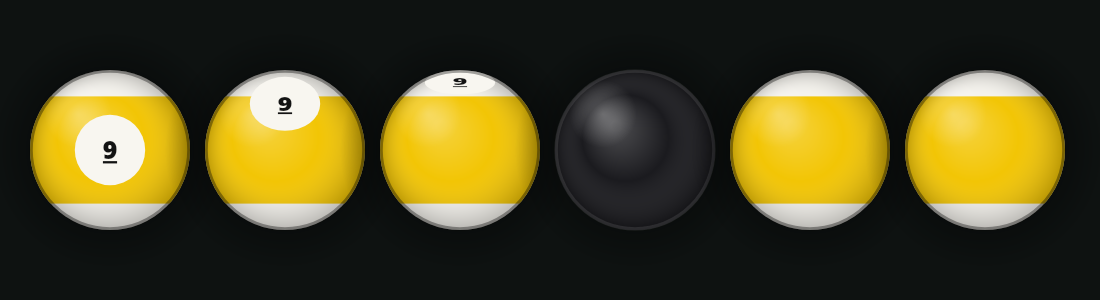
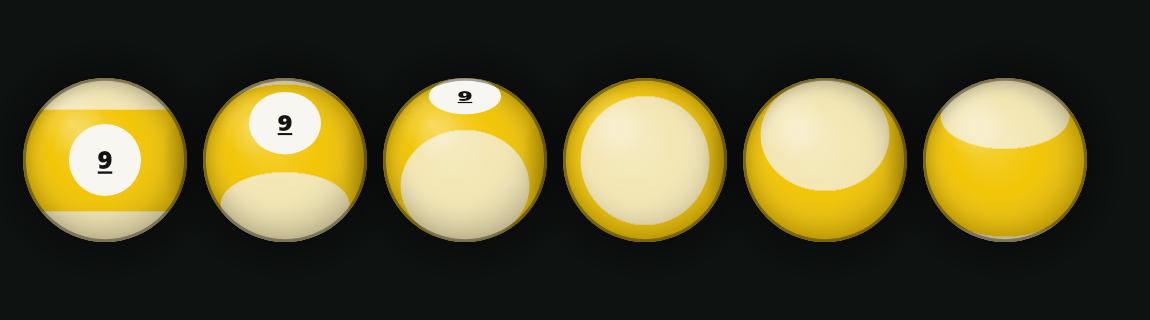
Fix the break: uniform-rate playback and a rack that is not a Newton's cradle
The playback indexed frames at a fixed 240Hz, but event-driven frames are not evenly spaced - a break produces clusters of millisecond steps, which played back as a freeze followed by a jump. Frames are now found by timestamp and interpolated. Separately, a mathematically perfect triangle breaks like a Newton's cradle: the impulse runs straight through and most balls never move. The rack now has sub-millimetre deterministic jitter. Striped balls are drawn by clipping the white poles against the sphere per scanline, so the band tilts and narrows as the ball rolls instead of staying pinned horizontal.

diff --git a/src/render/scene.ts b/src/render/scene.ts
@@ -379,11 +379,74 @@ function drawPlacement(ctx: CanvasRenderingContext2D, p: V2): void {
 }
 
 /**
+ * Fills the visible part of the sphere where P . axis > c * R.
+ *
+ * That is a spherical cap, and its outline depends on how the axis sits
+ * relative to the camera: a circle when the axis points at you, a straight
+ * edge when it lies in the screen plane, a conic in between. Solved per
+ * scanline by intersecting the plane with the circle of that row.
+ */
+function fillCap(
+  ctx: CanvasRenderingContext2D,
+  cx: number,
+  cy: number,
+  R: number,
+  axis: V3,
+  c: number,
+  color: string,
+  rows: number,
+): void {
+  const ax = axis.x;
+  const ay = axis.y;
+  const az = axis.z;
+  ctx.fillStyle = color;
+
+  for (let i = 0; i < rows; i++) {
+    const y = -R + ((i + 0.5) * 2 * R) / rows;
+    const h2 = R * R - y * y;
+    if (h2 <= 0) continue;
+    const h = Math.sqrt(h2);
+    const K = c * R - y * ay;
+
+    const edges: number[] = [-h, h];
+    if (Math.abs(az) < 1e-9) {
+      if (Math.abs(ax) > 1e-9) {
+        const x = K / ax;
+        if (x > -h && x < h) edges.push(x);
+      }
+    } else {
+      const A = ax * ax + az * az;
+      const B = -2 * K * ax;
+      const Cc = K * K - az * az * h2;
+      const disc = B * B - 4 * A * Cc;
+      if (disc > 0) {
+        const sq = Math.sqrt(disc);
+        for (const x of [(-B - sq) / (2 * A), (-B + sq) / (2 * A)]) {
+          if (x > -h && x < h) edges.push(x);
+        }
+      }
+    }
+
+    edges.sort((p, q) => p - q);
+    for (let k = 0; k < edges.length - 1; k++) {
+      const x0 = edges[k];
+      const x1 = edges[k + 1];
+      if (x1 - x0 < 1e-9) continue;
+      const xm = (x0 + x1) / 2;
+      const zm = Math.sqrt(Math.max(0, h2 - xm * xm));
+      if (ax * xm + ay * y + az * zm > c * R) {
+        ctx.fillRect(cx + x0, cy + y, x1 - x0, (2 * R) / rows + 1e-6);
+      }
+    }
+  }
+}
+
+/**
  * One ball.
  *
- * Solids are a disc with a white number patch, stripes are a band. The patch
- * position comes from the ball's orientation, so the number rolls over the top
- * of the ball and disappears round the back while it moves.
+ * Solids are a disc with a white number patch, stripes a coloured band. The
+ * patch position comes from the ball's orientation, so the number rolls over
+ * the top of the ball and disappears round the back while it moves.
  */
 export function drawBall(
   ctx: CanvasRenderingContext2D,
@@ -420,11 +483,17 @@ export function drawBall(
   ctx.fillStyle = isCue ? '#f4f2ec' : stripe ? '#f4f2ec' : hue;
   ctx.fillRect(x - R, y - R, R * 2, R * 2);
 
-  if (stripe && !isCue) {
-    // Narrow enough that the white poles read clearly. A band that reaches the
-    // top and bottom of the ball just looks like a solid.
+  if (stripe && !isCue && detail > 0) {
+    // The whole ball goes the stripe colour, then the two poles are painted
+    // back to white. Because the poles are clipped against the sphere they
+    // tilt, narrow and merge with the silhouette exactly as the ball rolls,
+    // instead of being a flat bar that ignores the rotation.
     ctx.fillStyle = hue;
-    ctx.fillRect(x - R, y - R * 0.67, R * 2, R * 1.34);
+    ctx.fillRect(x - R, y - R, R * 2, R * 2);
+    const rows = Math.max(10, Math.min(320, Math.round(pxRadius * 2)));
+    const axis = qRotate(b.q, { x: 0, y: 1, z: 0 });
+    fillCap(ctx, x, y, R, axis, 0.62, '#f4f2ec', rows);
+    fillCap(ctx, x, y, R, { x: -axis.x, y: -axis.y, z: -axis.z }, 0.62, '#f4f2ec', rows);
   }
 
   // Shading and highlight go down before the number. Shading the patch as

diff --git a/src/core/physics.ts b/src/core/physics.ts
@@ -88,7 +88,18 @@ export const makeBall = (id: number, x: number, y: number): Ball => ({
   pocketed: false,
 });
 
-const RACK_SPACING = 2 * BALL_R + 0.0004;
+const RACK_SPACING = 2 * BALL_R + 0.004;
+
+/**
+ * A real rack is never perfectly tight. With a mathematically perfect triangle
+ * the break behaves like a Newton's cradle: the impulse runs straight through
+ * and only the back of the rack moves. A few tenths of a millimetre of
+ * deterministic jitter is enough to make the pack scatter like a real one.
+ */
+function rackJitter(seed: number): number {
+  const x = Math.sin(seed * 12.9898) * 43758.5453;
+  return (x - Math.floor(x) - 0.5) * 0.0035;
+}
 
 /**
  * Standard 8-ball rack: 1 on the apex, 8 in the middle, one solid and one
@@ -110,7 +121,8 @@ export function newRack(): Ball[] {
     for (let i = 0; i < line.length; i++) {
       const x = apexX + row * dx;
       const y = (i - (line.length - 1) / 2) * RACK_SPACING;
-      balls.push(makeBall(line[i], x, y));
+      const seed = row * 7 + i + 1;
+      balls.push(makeBall(line[i], x + rackJitter(seed) * 0.5, y + rackJitter(seed + 31)));
     }
     row++;
   }
@@ -525,7 +537,7 @@ export function simulate(balls: Ball[]): { events: SimEvent[]; frames: Frame[] }
 
     // Resolve whatever we just ran into. A few passes so a ball squeezed
     // between two others settles instead of jittering.
-    for (let pass = 0; pass < 4; pass++) {
+    for (let pass = 0; pass < 12; pass++) {
       let touched = false;
       for (let i = 0; i < active.length; i++) {
         for (let k = i + 1; k < active.length; k++) {

diff --git a/src/app.ts b/src/app.ts
@@ -549,10 +549,21 @@ export class App {
     if (this.playFrames.length === 0) return this.state.balls;
 
     const fs = this.playFrames;
-    const f = this.playT * 240;
-    const i0 = clamp(Math.floor(f), 0, fs.length - 1);
+    // Frames are not evenly spaced - contacts produce clusters of very short
+    // steps - so the time has to be found by timestamp. Indexing at a fixed
+    // 240Hz made those clusters look like the table had frozen.
+    const t = this.playT;
+    let lo = 0;
+    let hi = fs.length - 1;
+    while (lo < hi) {
+      const mid = (lo + hi + 1) >> 1;
+      if (fs[mid].t <= t) lo = mid;
+      else hi = mid - 1;
+    }
+    const i0 = lo;
     const i1 = Math.min(i0 + 1, fs.length - 1);
-    const a = f - i0;
+    const span = fs[i1].t - fs[i0].t;
+    const a = span > 1e-9 ? (t - fs[i0].t) / span : 0;
     const A = fs[i0];
     const B = fs[i1];
 

diff --git a/test/physics.test.ts b/test/physics.test.ts
@@ -26,7 +26,8 @@ describe('rack', () => {
   it('puts the 8 in the middle of the rack and a solid/stripe in the back corners', () => {
     const balls = newRack();
     const eight = balls.find((b) => b.id === 8)!;
-    expect(Math.abs(eight.p.y)).toBeLessThan(1e-9);
+    // The rack has a little deterministic jitter, so "middle" is approximate.
+    expect(Math.abs(eight.p.y)).toBeLessThan(0.003);
     const back = balls
       .filter((b) => b.id !== 0)
       .sort((a, b) => b.p.x - a.p.x)

diff --git a/docs/physics.md b/docs/physics.md
@@ -187,7 +187,17 @@ Straight off a 9ft table with 2¼" balls.
   They do rattle balls out, which is the behaviour that matters.
 - **No jump shots.** Needs cue elevation in the input model and a vertical
   dimension in the simulation.
-- **The stripe on a striped ball does not tumble.** The number is projected
-  properly, so it rolls over the top of the ball and squashes as it goes, but
-  the colour band is drawn as a flat horizontal strip. Doing it correctly needs
-  the band to be clipped per pixel against the sphere.
+
+## Two things that were not obvious
+
+**A perfect rack does not break.** With the balls in a mathematically exact
+triangle, the impulse runs straight through the pack like a Newton's cradle and
+most of the balls never move at all. Real racks have gaps. A fraction of a
+millimetre of deterministic jitter, seeded so it is the same every time, is
+enough to make the pack scatter properly.
+
+**Frame spacing is not uniform.** The simulation runs on events, so a step is
+however long it is until the next contact. During a break, dozens of contacts
+land inside a few milliseconds and each one produces a very short step. Anything
+that replays the recording has to look frames up by timestamp; indexing them at
+a fixed rate makes those clusters play back as a freeze.
